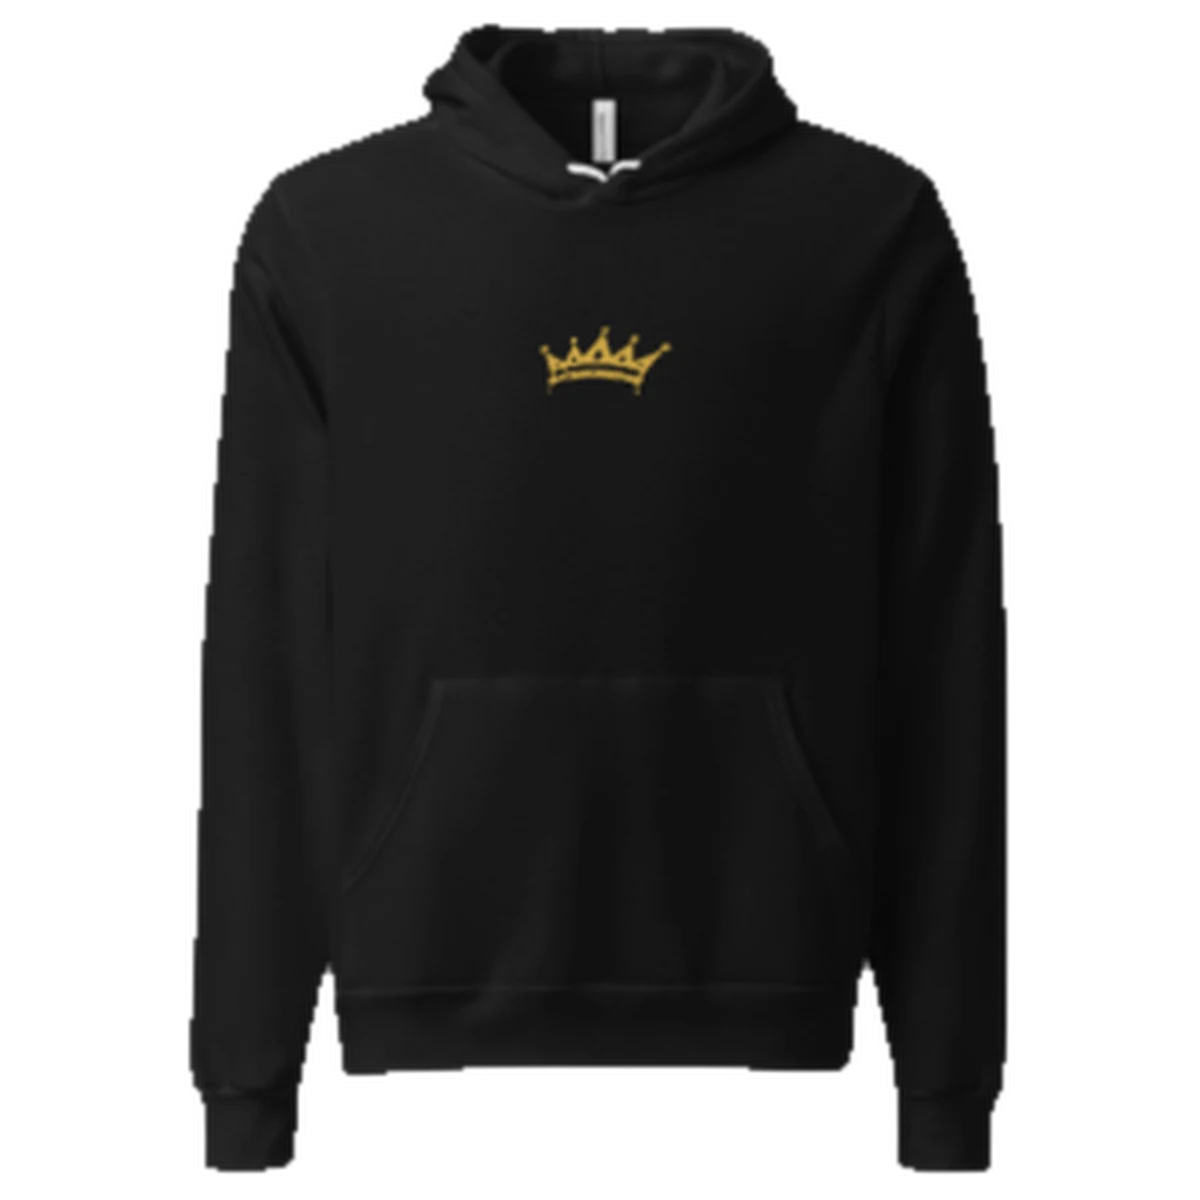
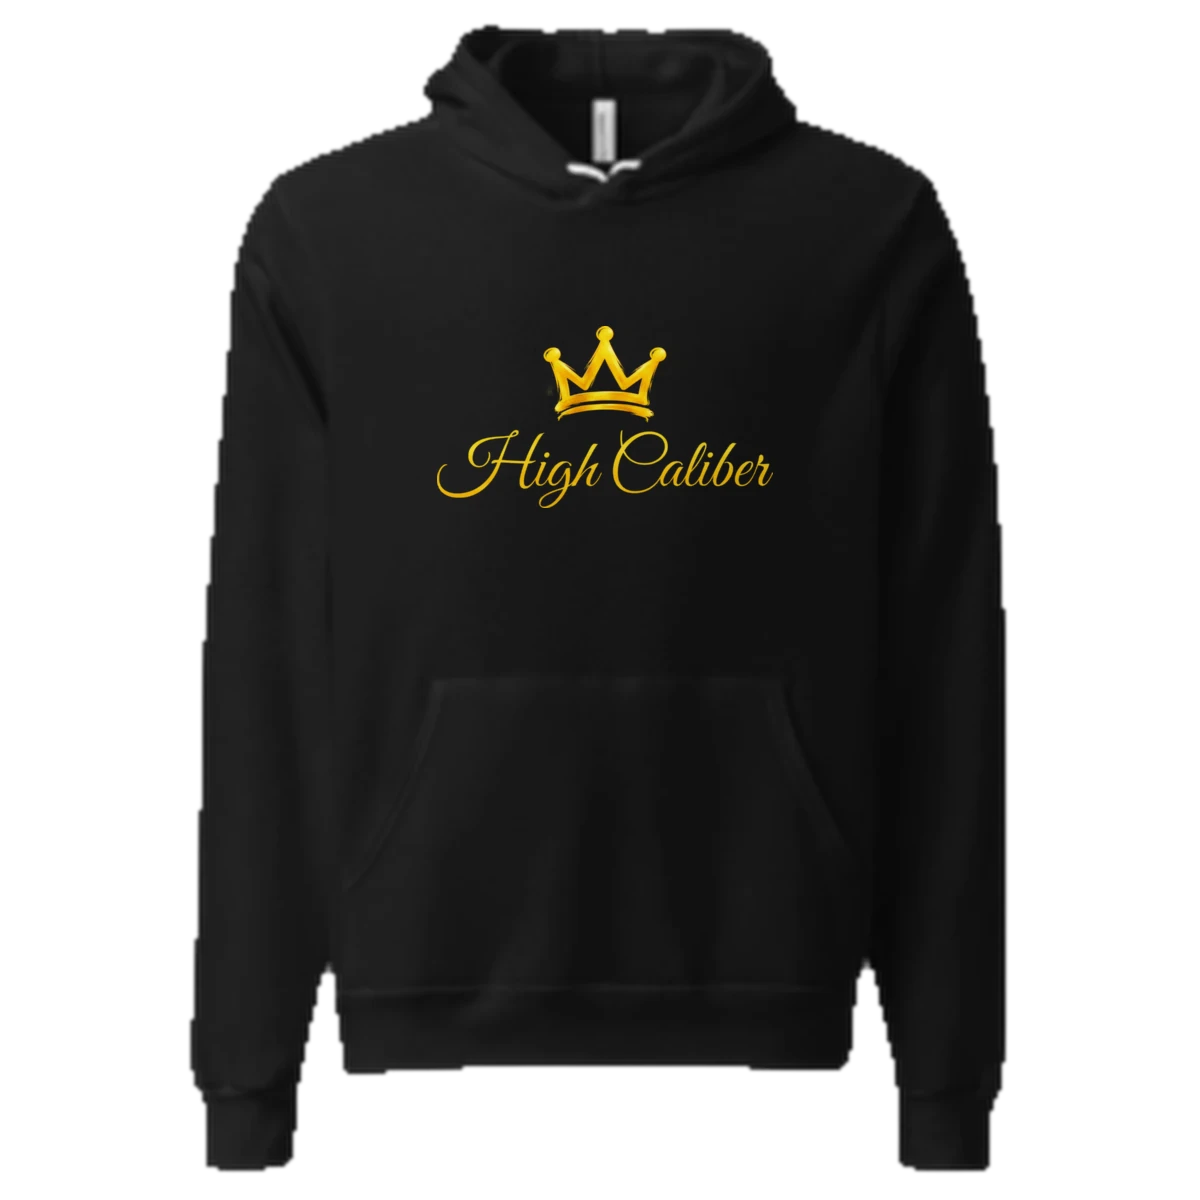
La Isla Reina Hoodie: original High Caliber crown over gold-foil script on front mockup; update description

diff --git a/src/lib/catalog.ts b/src/lib/catalog.ts
@@ -574,7 +574,7 @@ export const products: Product[] = [
     slug: 'la-isla-reina-hoodie',
     name: 'La Isla Reina Hoodie',
     description:
-      'Gold crown on the chest, red hibiscus running down both sleeves — Boricua royalty for the cooler nights. Black Bella+Canvas pullover hoodie.',
+      'Gold High Caliber crown over a script High Caliber on the chest, red hibiscus running down both sleeves — Boricua royalty for the cooler nights. Black Bella+Canvas pullover hoodie.',
     price: 69.99,
     images: [
       asset('/images/la-isla-reina-hoodie-front.webp'),
